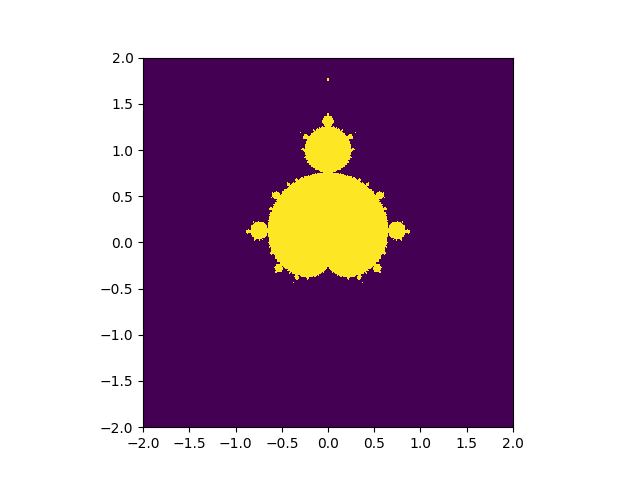
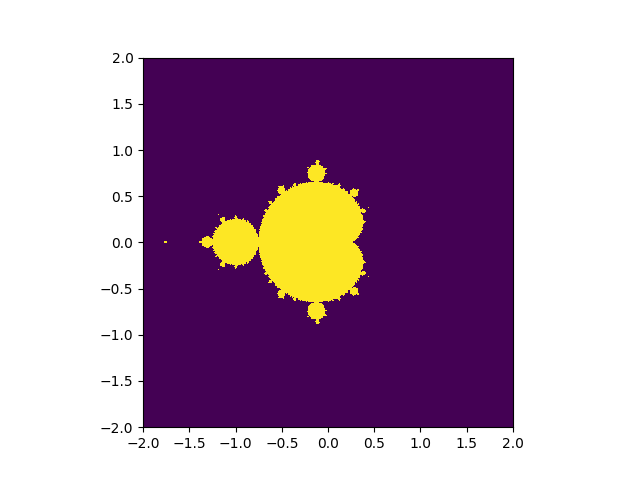
correct bug

Changed region(s): [[0.3125, 0.2188, 0.6562, 0.6875]]

diff --git a/gpu_mandelbrot.py b/gpu_mandelbrot.py
@@ -14,7 +14,7 @@ mandel_ker = ElementwiseKernel(
     mandelbrot_graph[i] = 1;
     pycuda::complex<float> c = lattice[i];
     pycuda::complex<float> z(0, 0);
-    for(int j = 0; j < max_iters; i++) {
+    for(int j = 0; j < max_iters; j++) {
         z = z * z + c;
         if(abs(z) > upper_bound) {
             mandelbrot_graph[i] = 0;
